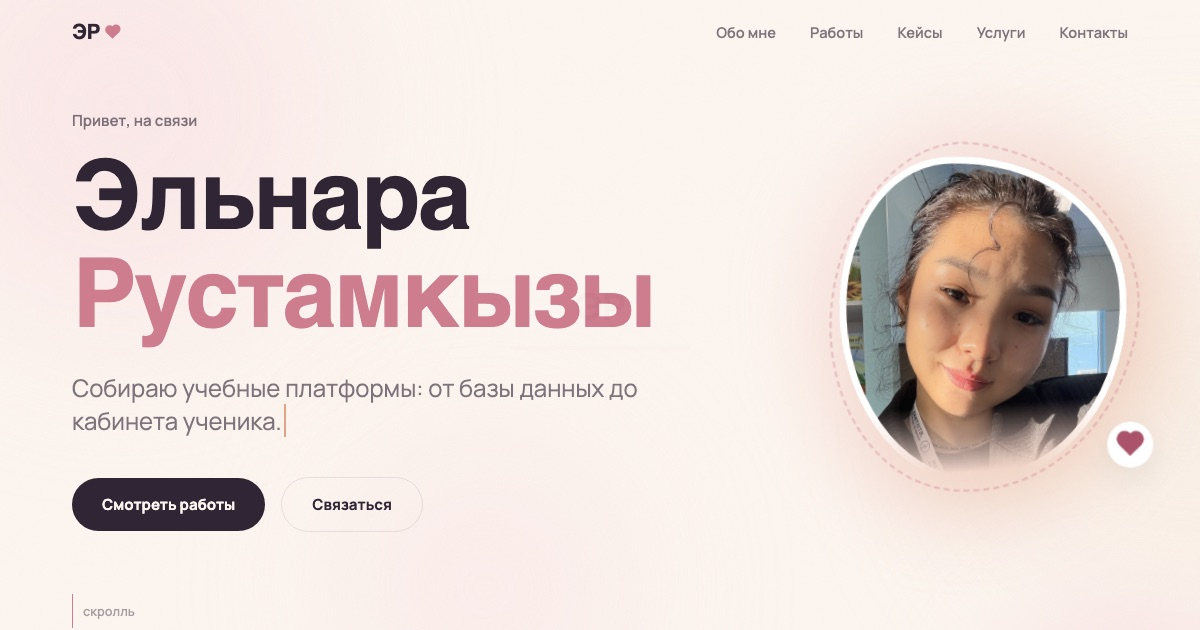
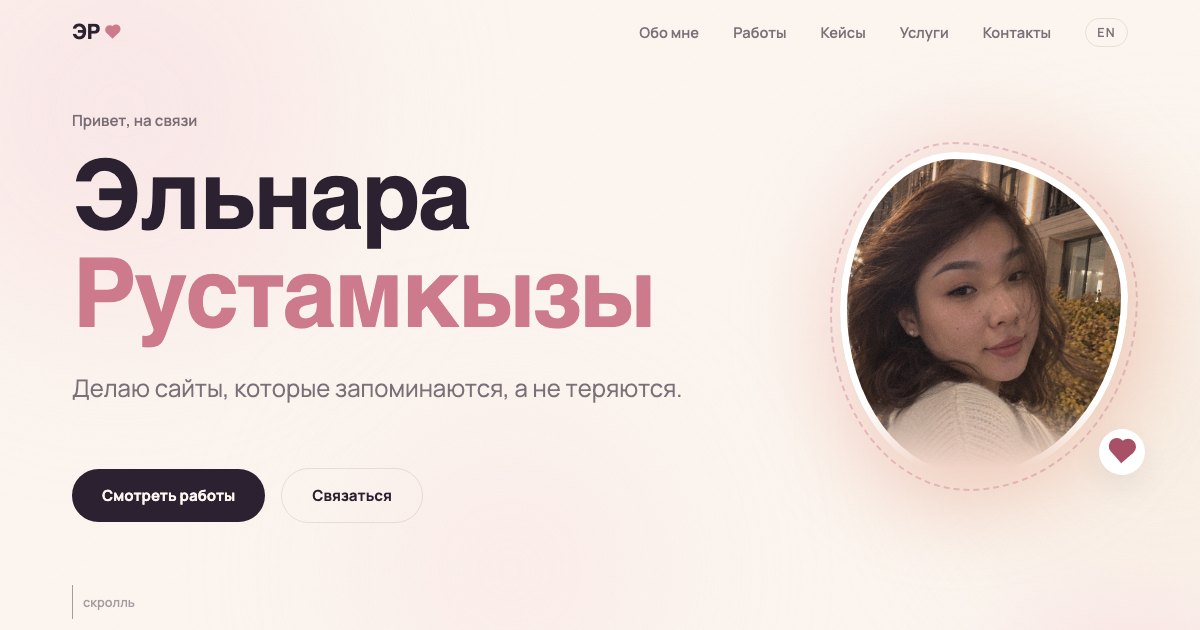
Новое фото профиля в шапке и в превью ссылки (og.jpg)

diff --git a/en.html b/en.html
@@ -15,13 +15,13 @@
 <meta property="og:url" content="https://elnaradr02-pixel.github.io/en.html">
 <meta property="og:title" content="Elnara Rustamkyzy — portfolio">
 <meta property="og:description" content="The Alfa Z learning platform, websites, interactive lessons and bots. Hand-written code + AI-assisted development.">
-<meta property="og:image" content="https://elnaradr02-pixel.github.io/og.jpg">
+<meta property="og:image" content="https://elnaradr02-pixel.github.io/og.jpg?v=2">
 <meta property="og:image:width" content="1200">
 <meta property="og:image:height" content="630">
 <meta name="twitter:card" content="summary_large_image">
 <meta name="twitter:title" content="Elnara Rustamkyzy — portfolio">
 <meta name="twitter:description" content="The Alfa Z learning platform, websites, interactive lessons and bots.">
-<meta name="twitter:image" content="https://elnaradr02-pixel.github.io/og.jpg">
+<meta name="twitter:image" content="https://elnaradr02-pixel.github.io/og.jpg?v=2">
 <script type="application/ld+json">
 {"@context":"https://schema.org","@type":"Person","name":"Elnara Rustamkyzy","url":"https://elnaradr02-pixel.github.io/en.html","image":"https://elnaradr02-pixel.github.io/elnara-photo.jpg","jobTitle":"Web developer: learning platforms, websites, interactive lessons","email":"mailto:elnara.d.r02@gmail.com","sameAs":["https://github.com/elnaradr02-pixel","https://t.me/elleaa717"],"knowsAbout":["Next.js","TypeScript","PostgreSQL","HTML/CSS/JS","AI-assisted development","Interactive lessons","Gamification"]}
 </script>
@@ -85,7 +85,7 @@
     <div class="hero-photo-wrap reveal">
       <div class="hero-photo-glow"></div>
       <div class="hero-photo-ring"></div>
-      <img class="hero-photo" src="elnara-photo.jpg" alt="Elnara Rustamkyzy">
+      <img class="hero-photo" src="elnara-photo.jpg?v=2" alt="Elnara Rustamkyzy">
       <div class="hero-photo-tint"></div>
       <span class="hero-photo-heart"><span class="heart-css" style="--hs:16px;--hc:var(--rose-deep);"></span></span>
     </div>

diff --git a/index.html b/index.html
@@ -19,13 +19,13 @@
 <meta property="og:url" content="https://elnaradr02-pixel.github.io/">
 <meta property="og:title" content="Эльнара Рустамкызы — портфолио">
 <meta property="og:description" content="Учебная платформа Alfa Z, сайты, интерактивные уроки и боты. Код руками + AI-assisted development.">
-<meta property="og:image" content="https://elnaradr02-pixel.github.io/og.jpg">
+<meta property="og:image" content="https://elnaradr02-pixel.github.io/og.jpg?v=2">
 <meta property="og:image:width" content="1200">
 <meta property="og:image:height" content="630">
 <meta name="twitter:card" content="summary_large_image">
 <meta name="twitter:title" content="Эльнара Рустамкызы — портфолио">
 <meta name="twitter:description" content="Учебная платформа Alfa Z, сайты, интерактивные уроки и боты.">
-<meta name="twitter:image" content="https://elnaradr02-pixel.github.io/og.jpg">
+<meta name="twitter:image" content="https://elnaradr02-pixel.github.io/og.jpg?v=2">
 <link rel="preconnect" href="https://fonts.googleapis.com">
 <link rel="preconnect" href="https://fonts.gstatic.com" crossorigin>
 <link href="https://fonts.googleapis.com/css2?family=Bricolage+Grotesque:opsz,wght@12..96,400;12..96,500;12..96,600;12..96,700;12..96,800&family=Manrope:wght@400;500;600;700;800&display=swap" rel="stylesheet">
@@ -87,7 +87,7 @@
     <div class="hero-photo-wrap reveal">
       <div class="hero-photo-glow"></div>
       <div class="hero-photo-ring"></div>
-      <img class="hero-photo" src="elnara-photo.jpg" alt="Эльнара Рустамкызы">
+      <img class="hero-photo" src="elnara-photo.jpg?v=2" alt="Эльнара Рустамкызы">
       <div class="hero-photo-tint"></div>
       <span class="hero-photo-heart"><span class="heart-css" style="--hs:16px;--hc:var(--rose-deep);"></span></span>
     </div>
